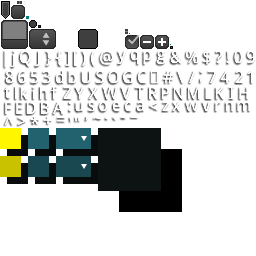
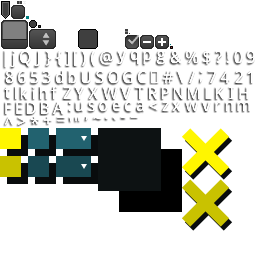
Drone menus... Close button not yet working

Changed region(s): [[0.7188, 0.5, 0.9062, 0.9062]]

diff --git a/core/src/com/gdxjam/magellan/ships/PlayerShip.java b/core/src/com/gdxjam/magellan/ships/PlayerShip.java
@@ -31,7 +31,6 @@ public class PlayerShip extends Ship implements IInteractable {
         drones.add(2);
         drones.add(3);
         drones.add(4);
-        drones.add(5);
     }
 
     public void moveTo(Sector sector) {
@@ -88,13 +87,64 @@ public class PlayerShip extends Ship implements IInteractable {
     @Override
     public ObjectMap<String, Interaction> getInteractions(GameObj with) {
         ObjectMap<String, Interaction> interactions = new ObjectMap();
-        interactions.put("release drone", new Interaction() {
-            @Override
-            public void interact() {
-                releaseDrone(1);
-                closeWindow();
+        if (submenuOpen == "") {
+            if (drones.size > 0) {
+                interactions.put("release drone", new Interaction() {
+                    @Override
+                    public void interact() {
+                        submenuOpen = "releasedrone";
+                        showInteractionWindow();
+                    }
+                });
             }
-        });
+        }
+        if (submenuOpen == "releasedrone") {
+            if (drones.contains(1,true)) {
+                interactions.put("Level 1", new Interaction() {
+                    @Override
+                    public void interact() {
+                        releaseDrone(1);
+                        closeWindow();
+                    }
+                });
+            }
+            if (drones.contains(2,true)) {
+                interactions.put("Level 2", new Interaction() {
+                    @Override
+                    public void interact() {
+                        releaseDrone(2);
+                        closeWindow();
+                    }
+                });
+            }
+            if (drones.contains(3,true)) {
+                interactions.put("Level 3", new Interaction() {
+                    @Override
+                    public void interact() {
+                        releaseDrone(3);
+                        closeWindow();
+                    }
+                });
+            }
+            if (drones.contains(4,true)) {
+                interactions.put("Level 4", new Interaction() {
+                    @Override
+                    public void interact() {
+                        releaseDrone(4);
+                        closeWindow();
+                    }
+                });
+            }
+            if (drones.contains(5,true)) {
+                interactions.put("Level 5", new Interaction() {
+                    @Override
+                    public void interact() {
+                        releaseDrone(5);
+                        closeWindow();
+                    }
+                });
+            }
+        }
 
         return interactions;
     }

diff --git a/core/src/com/gdxjam/magellan/screen/BaseScreen.java b/core/src/com/gdxjam/magellan/screen/BaseScreen.java
@@ -8,11 +8,15 @@ import com.badlogic.gdx.audio.Music;
 import com.badlogic.gdx.graphics.GL20;
 import com.badlogic.gdx.graphics.Texture;
 import com.badlogic.gdx.graphics.g2d.SpriteBatch;
+import com.badlogic.gdx.graphics.g2d.TextureRegion;
 import com.badlogic.gdx.math.MathUtils;
 import com.badlogic.gdx.scenes.scene2d.Actor;
 import com.badlogic.gdx.scenes.scene2d.Stage;
 import com.badlogic.gdx.scenes.scene2d.ui.*;
 import com.badlogic.gdx.scenes.scene2d.utils.ChangeListener;
+import com.badlogic.gdx.scenes.scene2d.utils.Drawable;
+import com.badlogic.gdx.scenes.scene2d.utils.TextureRegionDrawable;
+import com.badlogic.gdx.utils.Align;
 import com.badlogic.gdx.utils.viewport.FitViewport;
 import com.gdxjam.magellan.MagellanGame;
 import com.gdxjam.magellan.UiTopbar;
@@ -147,6 +151,21 @@ public class BaseScreen implements Screen, InputProcessor {
         window.padTop(70);
         window.padLeft(20);
         windowContainer.setActor(window);
+
+        TextureRegionDrawable btnUp = new TextureRegionDrawable(new TextureRegion(MagellanGame.assets.get("skin/uiskin.png", Texture.class), 182, 128, 51, 51));
+        TextureRegionDrawable btnDn = new TextureRegionDrawable(new TextureRegion(MagellanGame.assets.get("skin/uiskin.png", Texture.class), 182, 179, 51, 51));
+        Button closeButton = new Button(new Button.ButtonStyle(btnUp, btnDn, null));
+        closeButton.setSize(51, 51);
+        //closeButton.setPosition(10, 10, Align.topRight);
+        closeButton.addListener(new ChangeListener() {
+            @Override
+            public void changed(ChangeEvent event, Actor actor) {
+                closeWindow();
+            }
+        });
+
+        window.addActor(closeButton);
+        window.setDebug(true);
         return window;
     }
 

diff --git a/core/src/com/gdxjam/magellan/Planet.java b/core/src/com/gdxjam/magellan/Planet.java
@@ -29,7 +29,6 @@ public class Planet extends GameObj implements IDrawableMap, IDestroyable, IInte
         super(sector);
         visualType = MathUtils.random(1,2);
         switch (MathUtils.random(4)) {
-
             case 0: color = MagellanColors.PLANET_1; break;
             case 1: color = MagellanColors.PLANET_2; break;
             case 2: color = MagellanColors.PLANET_3; break;

diff --git a/core/src/com/gdxjam/magellan/drones/Drone.java b/core/src/com/gdxjam/magellan/drones/Drone.java
@@ -204,7 +204,6 @@ public class Drone extends MovingGameObj implements IDestroyable, IDrawableMap, 
     }
 
     public void clearRoutines() {
-        // TODO: Garbage collection?
         routines.clear();
     }
 }
